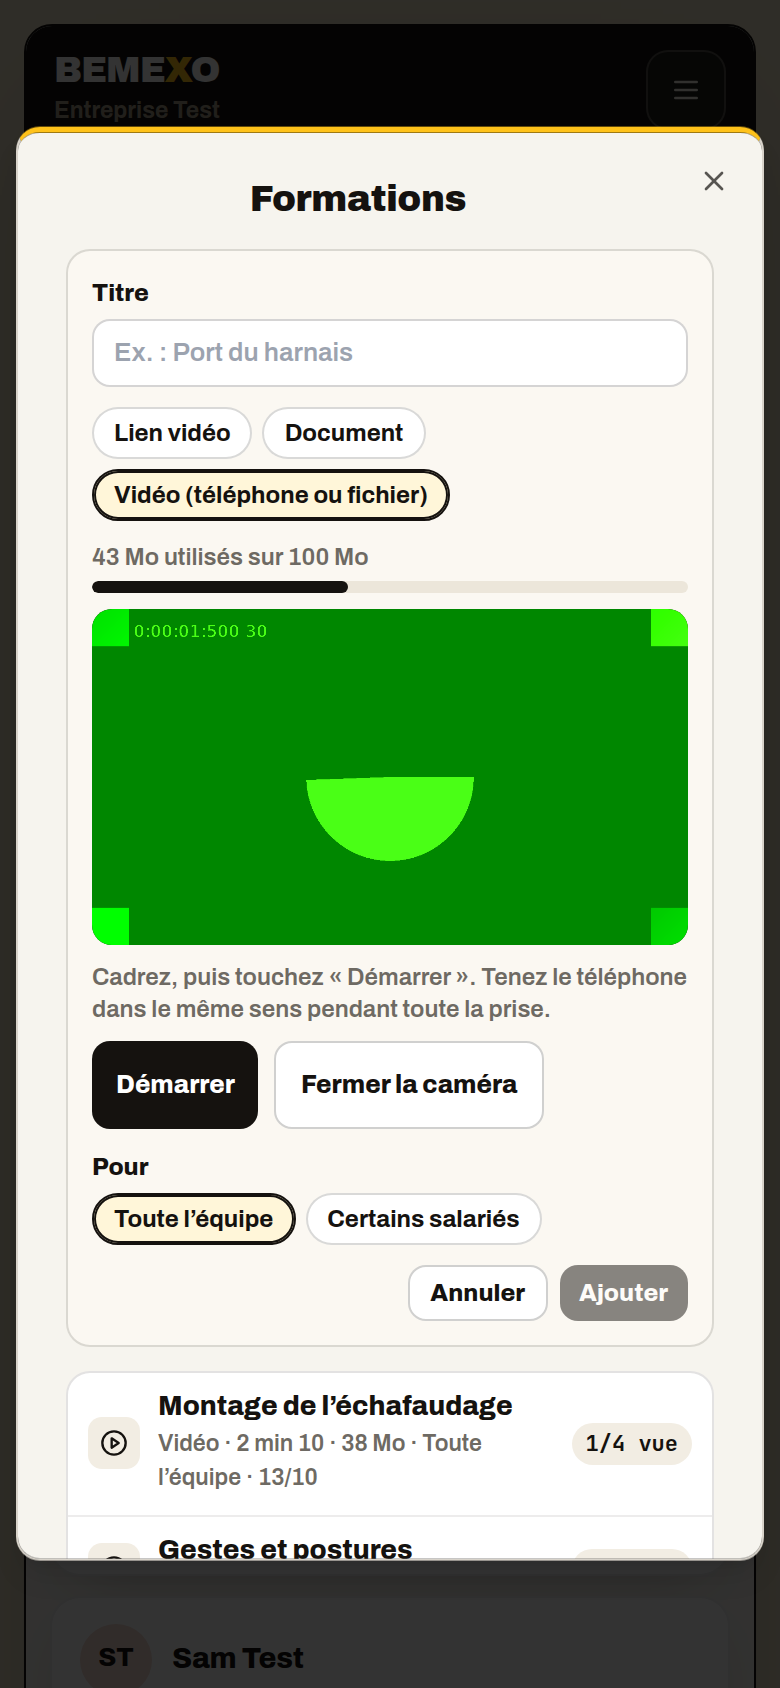
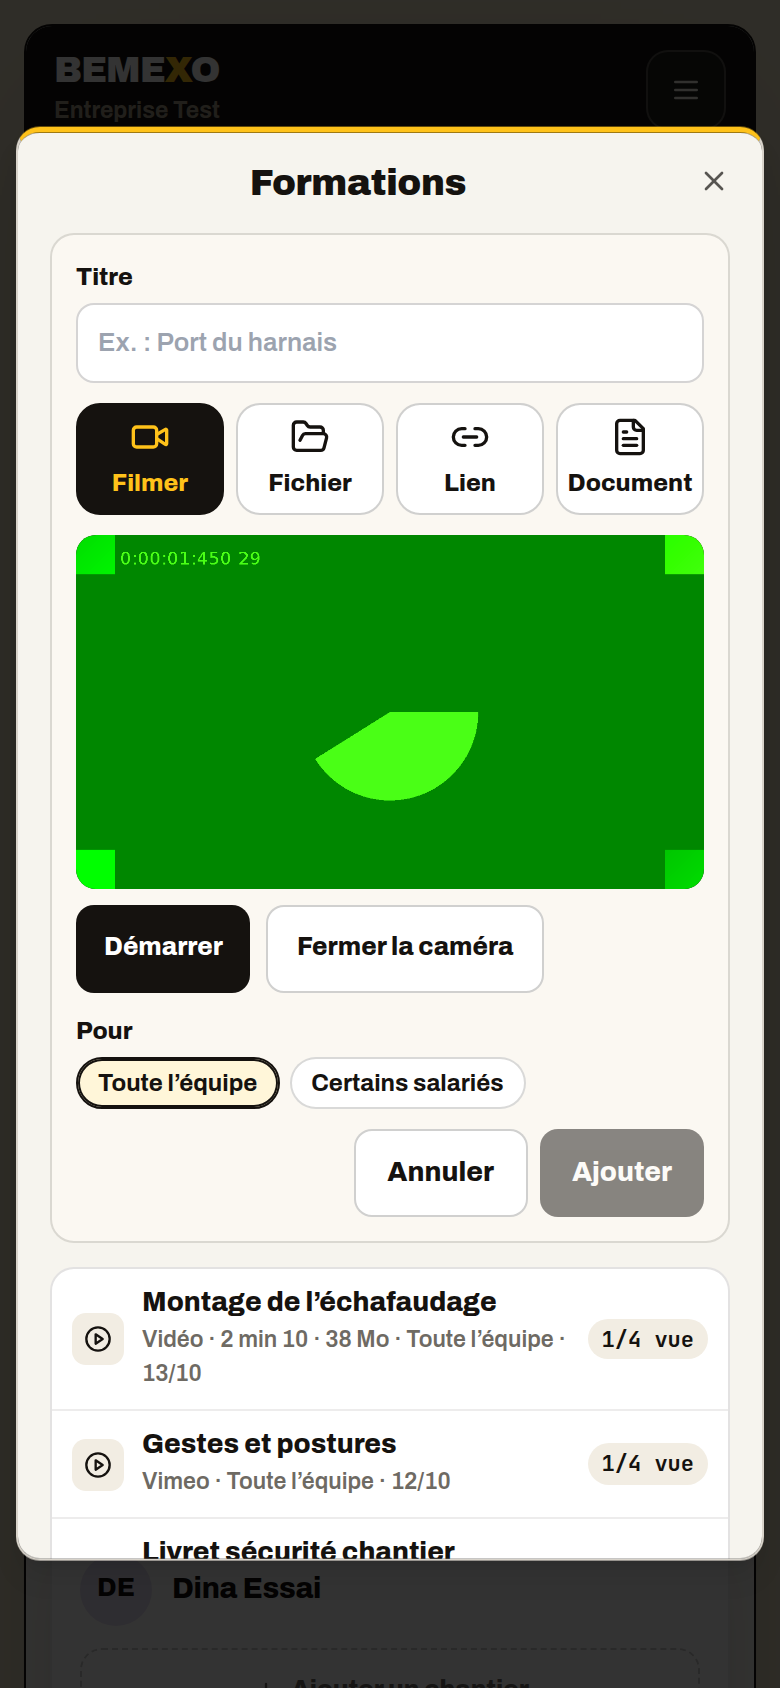
Formations (bureau) : relecture, la prise filmée n'est plus jetée + plus de consigne « Cadrez »
- « Filmer » : la disponibilité dynamique (place restante >= 2 Mo) ne défait plus un
  choix déjà engagé. Tant que l'enregistreur est ouvert ou qu'une prise est prête,
  « Filmer » reste (avant : après un refus de quota, la jauge relue faisait retomber
  sur « Lien » et jetait la prise ; idem si la jauge arrivait après l'appui). Test
  d'écran S10 (les deux scénarios, rouge avant, vert après).
- Enregistreur : la phrase « Cadrez, puis touchez « Démarrer »… » est supprimée
  (REC_READY et son test), conformément à « quasi rien d'écrit ». Absence vérifiée
  (REMOVED + section S4). Captures enregistreur mises à jour.

Claude-Session: https://claude.ai/code/session_01UjXHEzdjb9t6bteo8SrVhu

diff --git a/supabase/functions/_shared/video-recorder.test.ts b/supabase/functions/_shared/video-recorder.test.ts
@@ -2,7 +2,7 @@
 //   npm run test:enregistreur
 import {
   baseMime, countdownBand, estimateRate, formatClock, pickRecorderMime, REC_ABORT, REC_ABORT_ASK, REC_ABORT_NO, REC_ABORT_YES, REC_AUDIO_BPS, REC_AUTO_SIZE, REC_AUTO_TIME, REC_AUTO_TEXT, REC_BACK, REC_COUNTDOWN, REC_COUNTDOWN_SECONDS,
-  REC_CUT, REC_FAILED, REC_MAX_LABEL, REC_MAX_SECONDS, REC_MIME_CANDIDATES, REC_MIN_ROOM_BYTES, REC_OPENING, REC_READY, REC_RUNNING, REC_START, REC_STOP,
+  REC_CUT, REC_FAILED, REC_MAX_LABEL, REC_MAX_SECONDS, REC_MIME_CANDIDATES, REC_MIN_ROOM_BYTES, REC_OPENING, REC_RUNNING, REC_START, REC_STOP,
   REC_TIMESLICE_MS, REC_VIDEO_BPS, recorderAvailable, recorderCapBytes, recorderErrorMessage, recorderFileName, recorderMaxLabel, recorderMaxSeconds, stopDecision,
 } from './video-recorder.ts';
 import { VIDEO_MAX_BYTES, VIDEO_QUOTA_BYTES } from './training-videos.ts';
@@ -104,7 +104,6 @@ Deno.test('nom du fichier, minuteur', () => {
 
 Deno.test('textes exacts', () => {
   eq(REC_OPENING, 'Ouverture de la caméra…', 'ouverture');
-  eq(REC_READY, 'Cadrez, puis touchez « Démarrer ». Tenez le téléphone dans le même sens pendant toute la prise.', 'prêt');
   eq([REC_START, REC_STOP, REC_ABORT, REC_BACK], ['Démarrer', 'Arrêter', 'Abandonner', 'Fermer la caméra'], 'boutons (« Fermer la caméra » ne se confond pas avec « Annuler » du formulaire)');
   eq([REC_ABORT_ASK, REC_ABORT_YES, REC_ABORT_NO], ['Jeter cette prise ?', 'Oui, jeter', 'Non, continuer'], 'confirmation avant de jeter une prise');
   eq(REC_RUNNING, 'Enregistrement en cours', 'en cours');

diff --git a/components/trainings-admin.tsx b/components/trainings-admin.tsx
@@ -283,7 +283,10 @@ export default function TrainingsAdmin({ open, onOpenChange, companyId, companyN
   // Les choix proposés, dans l'ordre : Filmer · Fichier · Lien · Document.
   // « Filmer » : l'enregistreur intégré (place d'au moins 2 Mo comprise) ; à défaut la caméra native sur un écran tactile ; sinon rien
   // (jamais un « Filmer » qui ouvrirait l'explorateur de fichiers d'un ordinateur).
-  const cam: 'rec' | 'native' | 'none' = canRec && (!limits || recorderAvailable(limits)) ? 'rec' : coarse ? 'native' : 'none';
+  // Un choix déjà engagé n'est jamais défait par la lecture de la jauge : tant que l'enregistreur est ouvert ou qu'une prise est prête, « Filmer »
+  // reste (un autre compte du bureau a pu remplir la place après la prise, ou la jauge arrive après l'appui : la prise ne se perd pas).
+  const takeEngaged = recOpen || file?.source === 'recorder';
+  const cam: 'rec' | 'native' | 'none' = canRec && (takeEngaged || !limits || recorderAvailable(limits)) ? 'rec' : coarse ? 'native' : 'none';
   const allowed: Kind[] = [...(videosOn && cam !== 'none' ? ['record' as const] : []), ...(videosOn ? ['file' as const] : []), 'link', ...(docsOn ? ['document' as const] : [])];
   // Rien de choisi : « Lien » sans les vidéos, aucun contenu sinon. Un choix devenu impossible (« Document » sans document…) retombe sur « Lien ».
   const eff: Kind | null = kind === null ? (videosOn ? null : 'link') : allowed.includes(kind) ? kind : 'link';

diff --git a/components/training-video-recorder.tsx b/components/training-video-recorder.tsx
@@ -16,7 +16,7 @@
 import { useEffect, useRef, useState } from 'react';
 import {
   baseMime, countdownBand, estimateRate, formatClock, pickRecorderMime, REC_ABORT, REC_ABORT_ASK, REC_ABORT_NO, REC_ABORT_YES, REC_AUDIO_BPS, REC_BACK, REC_COUNTDOWN,
-  REC_COUNTDOWN_SECONDS, REC_FAILED, REC_FPS, REC_HEIGHT, REC_OPENING, REC_READY, REC_RUNNING, REC_START, REC_STOP, REC_TIMESLICE_MS, REC_VIDEO_BPS, REC_WIDTH,
+  REC_COUNTDOWN_SECONDS, REC_FAILED, REC_FPS, REC_HEIGHT, REC_OPENING, REC_RUNNING, REC_START, REC_STOP, REC_TIMESLICE_MS, REC_VIDEO_BPS, REC_WIDTH,
   recorderCapBytes, recorderErrorMessage, recorderFileName, recorderMaxLabel, recorderMaxSeconds, stopDecision,
 } from '@/supabase/functions/_shared/video-recorder';
 import type { Limits } from '@/supabase/functions/_shared/training-videos';
@@ -265,7 +265,6 @@ export default function TrainingVideoRecorder({ limits, onDone, onError, onCance
           <video ref={videoEl} className="bt-fo-rec-live" muted playsInline autoPlay aria-label="Aperçu de la caméra" data-testid="tr-rec-live" />
           {phase === 'ready' ? (
             <>
-              <p className="bt-fo-muted">{REC_READY}</p>
               <div className="bt-fo-rec-row">
                 <button ref={startBtn} type="button" className="bt-fo-btn" onClick={start} data-testid="tr-rec-start">{REC_START}</button>
                 <button type="button" className="bt-fo-btn ghost" onClick={abort} data-testid="tr-rec-cancel">{REC_BACK}</button>

diff --git a/supabase/functions/_shared/video-recorder.ts b/supabase/functions/_shared/video-recorder.ts
@@ -118,7 +118,7 @@ export function formatClock(seconds: number): string {
 
 // ─── Textes ──────────────────────────────────────────────────────────────────
 export const REC_OPENING = 'Ouverture de la caméra…';
-export const REC_READY = 'Cadrez, puis touchez « Démarrer ». Tenez le téléphone dans le même sens pendant toute la prise.';
+// Aucune consigne « Cadrez… » avant la prise (décision du patron : personne ne lit ces textes) ; seul « Démarrer » est écrit.
 export const REC_START = 'Démarrer';
 export const REC_STOP = 'Arrêter';
 export const REC_ABORT = 'Abandonner';
